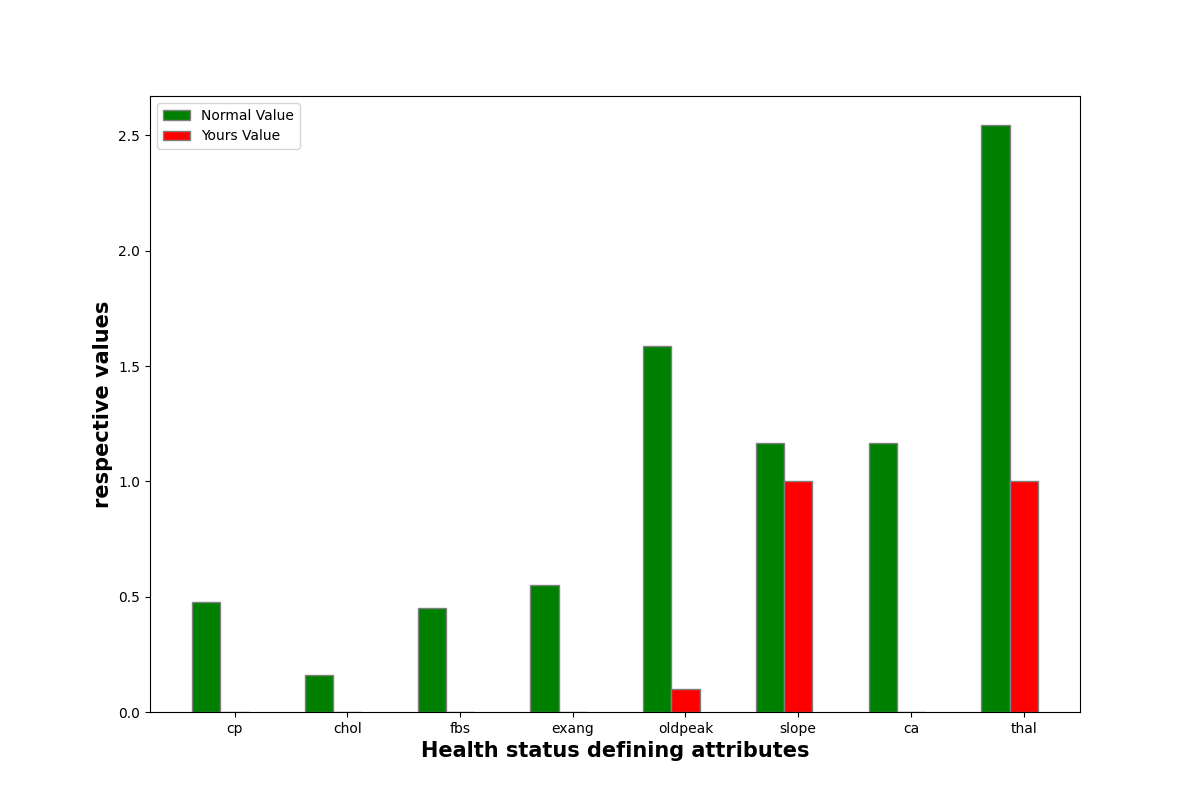
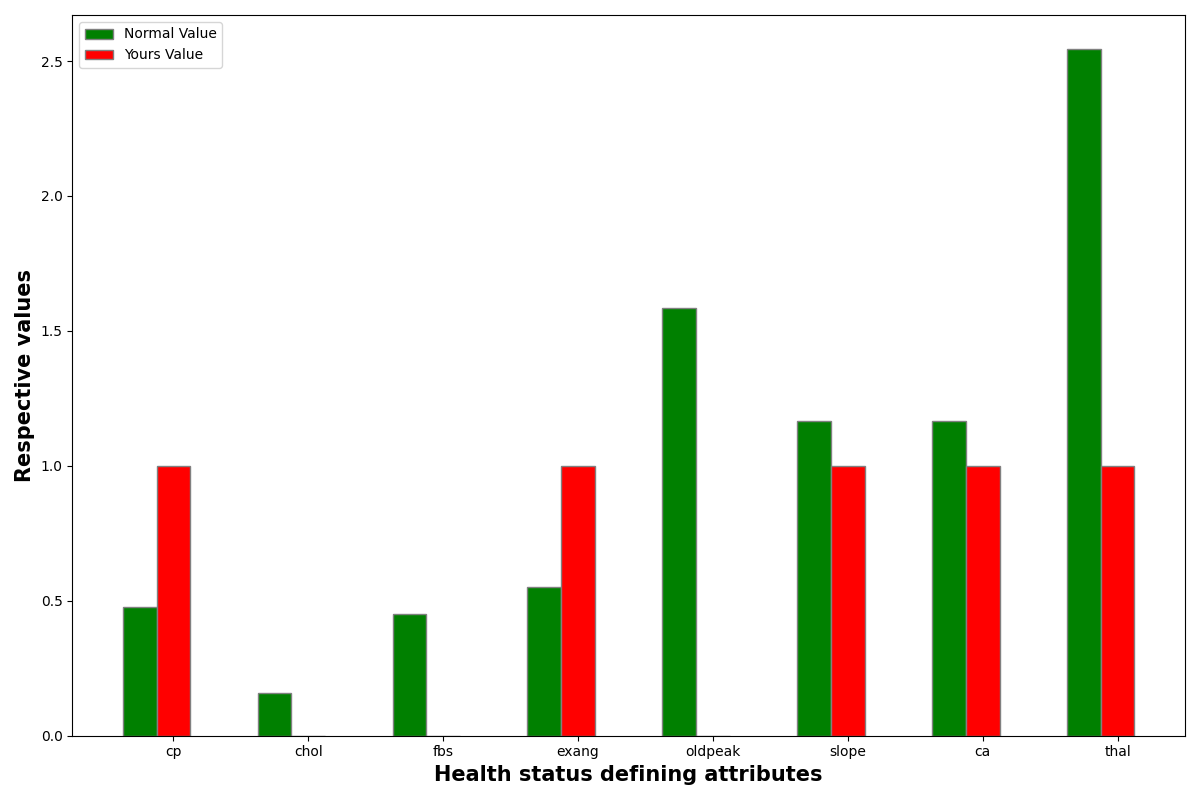
Update Cardio Monitor project with matplotlib Agg backend fix and UI updates

diff --git a/templates/disease.html b/templates/disease.html
@@ -230,16 +230,13 @@
   </section>
 
   <!-- Footer -->
-  <footer class="site-footer">
+   <footer class="site-footer">
     <div class="footer-container">
-      <div class="footer-brand">
-        <img src="{{ url_for('static', filename='heartlogo.png') }}" alt="Logo" height="35">
-        <span>Cardio<strong>Monitor</strong></span>
-      </div>
-      <p class="footer-text">Built with <i class="fas fa-heart" style="color:#ef4444"></i> by Bhuva Harsh | ML Heart Disease Prediction</p>
+     
+      <p class="footer-text">Built with <i class="fas fa-heart" style="color:#ef4444"></i> by Prinsi Patel | Machine Learning Heart Disease Prediction</p>
       <div class="footer-links">
-        <a href="https://github.com/HarshBhuva25" target="_blank"><i class="fab fa-github"></i></a>
-        <a href="https://www.linkedin.com/in/harsh-bhuva-a115a4287/" target="_blank"><i class="fab fa-linkedin"></i></a>
+        <a href="https://github.com/PrinsiPatel26" target="_blank"><i class="fab fa-github"></i></a>
+        <a href="https://www.linkedin.com/in/prinsi-aghera-a58369350/ " target="_blank"><i class="fab fa-linkedin"></i></a>
       </div>
     </div>
   </footer>

diff --git a/templates/result.html b/templates/result.html
@@ -129,16 +129,13 @@
   </section>
 
   <!-- Footer -->
-  <footer class="site-footer">
+   <footer class="site-footer">
     <div class="footer-container">
-      <div class="footer-brand">
-        <img src="{{ url_for('static', filename='heartlogo.png') }}" alt="Logo" height="35">
-        <span>Cardio<strong>Monitor</strong></span>
-      </div>
-      <p class="footer-text">Built with <i class="fas fa-heart" style="color:#ef4444"></i> by Bhuva Harsh | ML Heart Disease Prediction</p>
+     
+      <p class="footer-text">Built with <i class="fas fa-heart" style="color:#ef4444"></i> by Prinsi Patel | Machine Learning Heart Disease Prediction</p>
       <div class="footer-links">
-        <a href="https://github.com/HarshBhuva25" target="_blank"><i class="fab fa-github"></i></a>
-        <a href="https://www.linkedin.com/in/harsh-bhuva-a115a4287/" target="_blank"><i class="fab fa-linkedin"></i></a>
+        <a href="https://github.com/PrinsiPatel26" target="_blank"><i class="fab fa-github"></i></a>
+        <a href="https://www.linkedin.com/in/prinsi-aghera-a58369350/ " target="_blank"><i class="fab fa-linkedin"></i></a>
       </div>
     </div>
   </footer>

diff --git a/templates/home.html b/templates/home.html
@@ -211,14 +211,11 @@
   <!-- Footer -->
   <footer class="site-footer">
     <div class="footer-container">
-      <div class="footer-brand">
-        <img src="{{ url_for('static', filename='heartlogo.png') }}" alt="Logo" height="35">
-        <span>Cardio<strong>Monitor</strong></span>
-      </div>
-      <p class="footer-text">Built with <i class="fas fa-heart" style="color:#ef4444"></i> by Bhuva Harsh | Machine Learning Heart Disease Prediction</p>
+     
+      <p class="footer-text">Built with <i class="fas fa-heart" style="color:#ef4444"></i> by Prinsi Patel | Machine Learning Heart Disease Prediction</p>
       <div class="footer-links">
-        <a href="https://github.com/HarshBhuva25" target="_blank"><i class="fab fa-github"></i></a>
-        <a href="https://www.linkedin.com/in/harsh-bhuva-a115a4287/" target="_blank"><i class="fab fa-linkedin"></i></a>
+        <a href="https://github.com/PrinsiPatel26" target="_blank"><i class="fab fa-github"></i></a>
+        <a href="https://www.linkedin.com/in/prinsi-aghera-a58369350/ " target="_blank"><i class="fab fa-linkedin"></i></a>
       </div>
     </div>
   </footer>

diff --git a/templates/error.html b/templates/error.html
@@ -51,11 +51,7 @@
   <!-- Footer -->
   <footer class="site-footer">
     <div class="footer-container">
-      <div class="footer-brand">
-        <img src="{{ url_for('static', filename='heartlogo.png') }}" alt="Logo" height="35">
-        <span>Cardio<strong>Monitor</strong></span>
-      </div>
-      <p class="footer-text">Built with <i class="fas fa-heart" style="color:#ef4444"></i> by Bhuva Harsh</p>
+      <p class="footer-text">Built with <i class="fas fa-heart" style="color:#ef4444"></i> by Prinsi Patel</p>
     </div>
   </footer>
 </body>

diff --git a/app.py b/app.py
@@ -1,4 +1,6 @@
 from itertools import count
+import matplotlib
+matplotlib.use('Agg')
 from flask import Flask, render_template ,url_for ,request,Response
 import numpy as np
 import database